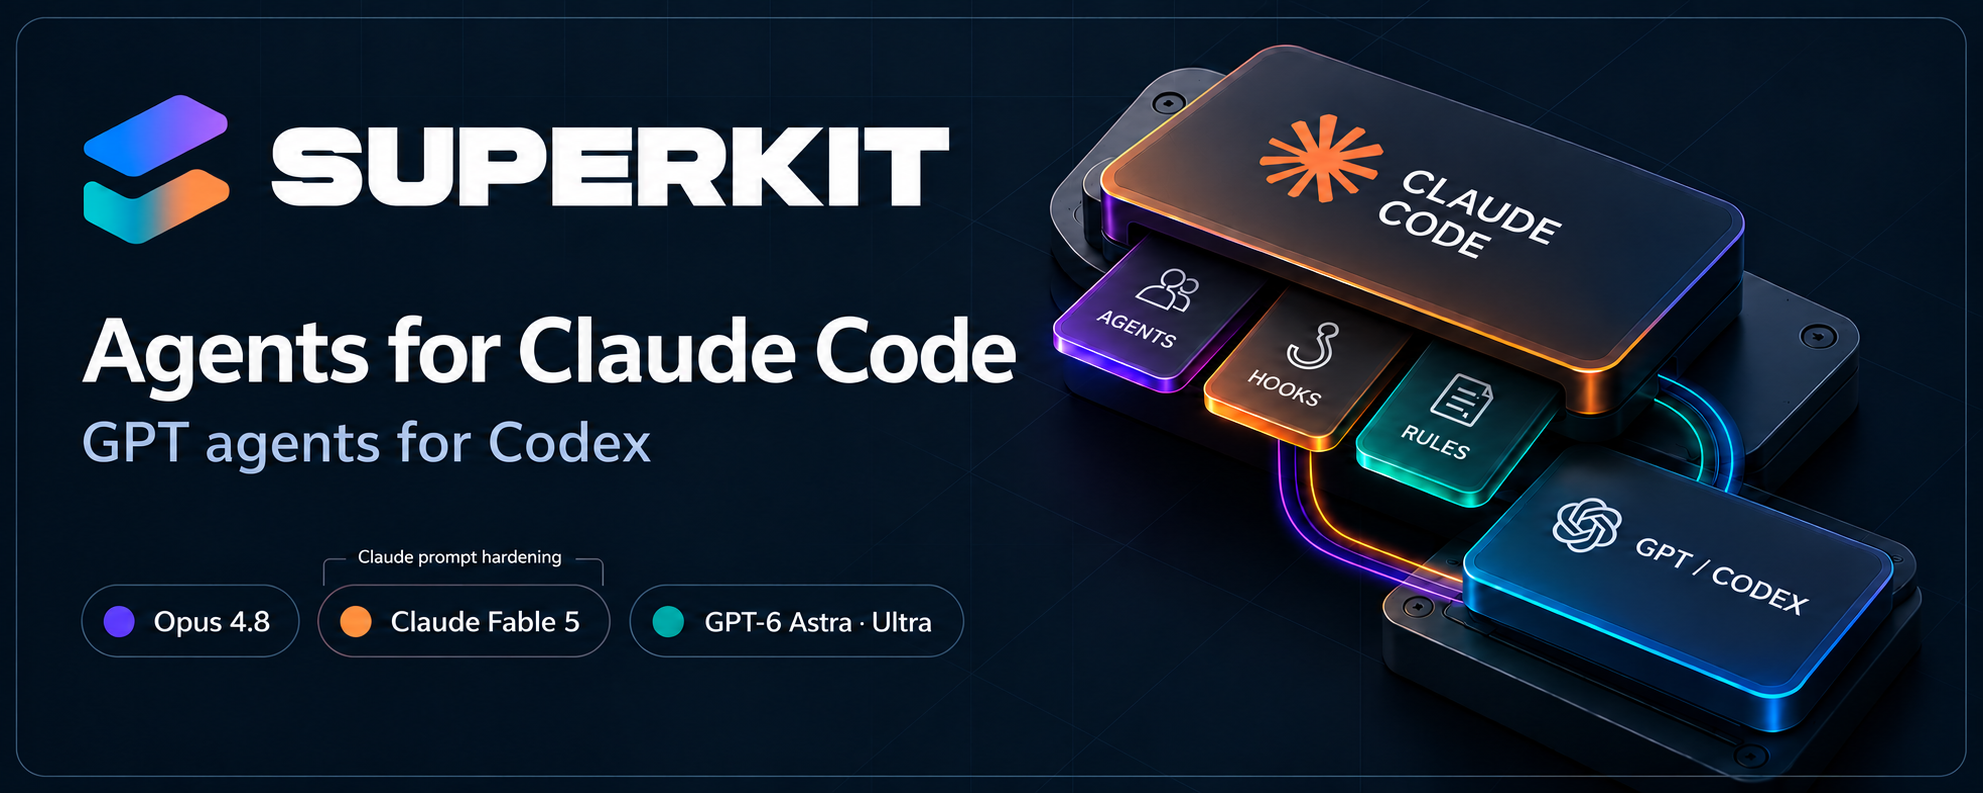
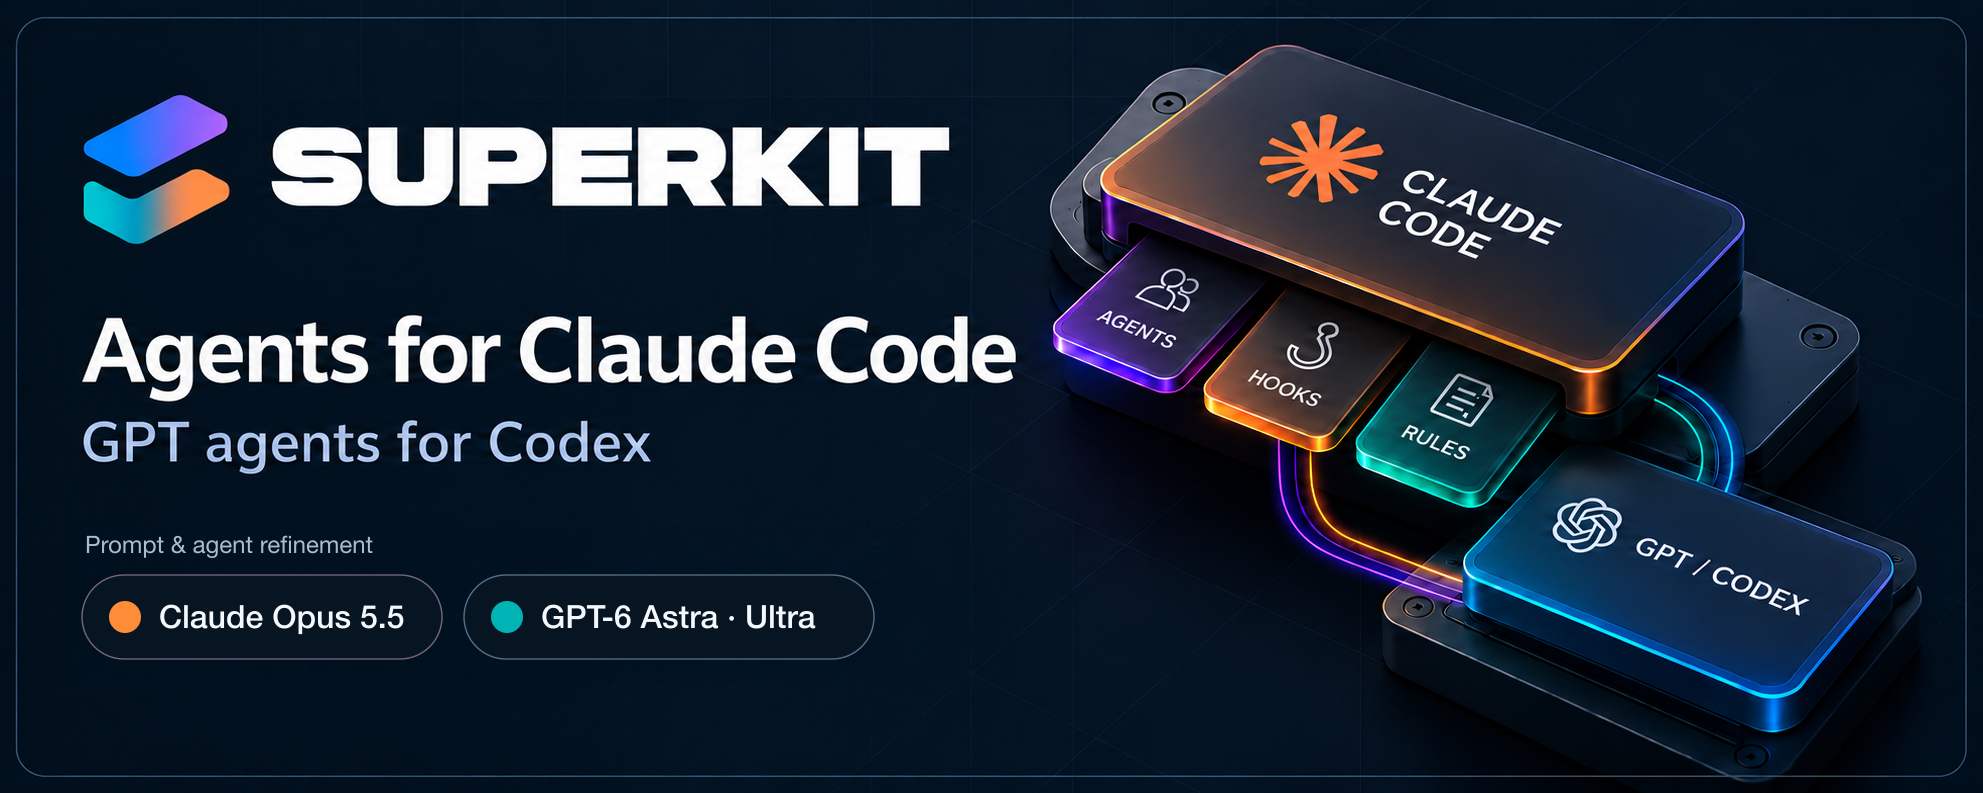
docs(readme): restore the Opus 5.5 / GPT-6 Astra header lost in the merge
The header added on the Claude branch (10d9b52) was overwritten by origin/main's
version while resolving the add/add conflict in 2e760b6.

Changed region(s): [[0.0308, 0.6658, 0.4614, 0.8474]]

diff --git a/README.md b/README.md
@@ -1,5 +1,5 @@
 <p align="center">
-  <img src="docs/assets/superkit-header.png" alt="Superkit — agents for Claude Code and GPT agents for Codex" width="960">
+  <img src="docs/assets/superkit-header.png" alt="Superkit — agents for Claude Code and GPT agents for Codex; prompt and agent refinement with Claude Opus 5.5 and GPT-6 Astra" width="960">
 </p>
 
 <p align="center">
